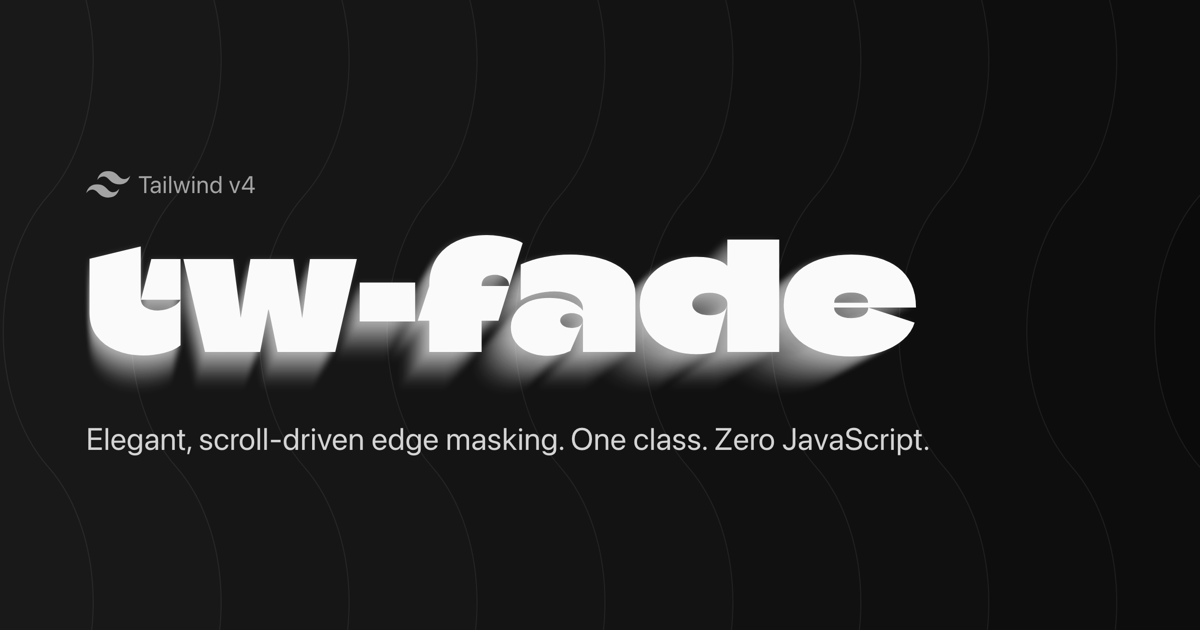
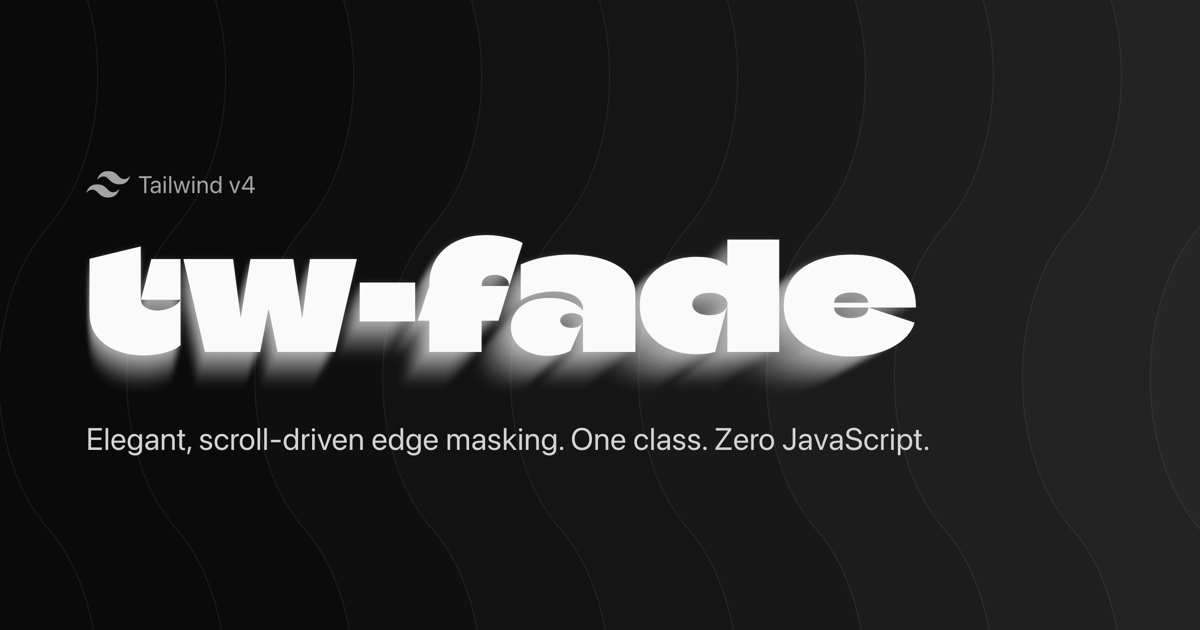
Retune wave fill gradation; OG uses taller wave geometry
Update the stepped per-strip fill on both the live demo and the OG card:
angle 180 (gradation now strengthens toward the right), opacity start
0.122, end 0, stop offsets 0%-77%.

The OG additionally overrides the scroll-morph geometry via a new
window.__demoWaveParams hook (merged over the runtime defaults), giving
the card a taller/longer top wave (amplitude 66, wavelength 605) tuned
for the 1200x630 crop. The live page leaves the hook unset and keeps its
existing geometry.

Claude-Session: https://claude.ai/code/session_014uotQn1DgYLt2LjoJWRV9A

Changed region(s): [[0.9558, 0.3619, 1.0, 0.8444]]

diff --git a/demo/demo-animations.js b/demo/demo-animations.js
@@ -262,6 +262,9 @@ if (!prefersReducedMotion) {
     const scroller = document.body;
     if (!field || !pattern || !path || !scroller) return;
 
+    // The OG card renders this wave statically and overrides the scroll-morph
+    // geometry via window.__demoWaveParams (set before this script runs); the
+    // live page leaves it unset and uses these defaults.
     const params = {
       amplitudeTop: 60,
       amplitudeBottom: 28,
@@ -271,17 +274,18 @@ if (!prefersReducedMotion) {
       spacing: 128,
       columns: 1,
       stagger: false,
+      ...(window.__demoWaveParams || {}),
     };
 
     // Stepped per-strip fill (tuned in wave-lab.html): every band between wave
     // lines gets ONE flat shade, stepping across the screen along `angle`.
     // Color comes from --demo-wave-fill (CSS); only opacity is set per strip.
     const fill = {
-      angle: 0,
-      opacityStart: 0.07,
+      angle: 180,
+      opacityStart: 0.122,
       opacityEnd: 0.0,
       offsetStart: 0,
-      offsetEnd: 100,
+      offsetEnd: 77,
     };
 
     const round = (value) => Number(value.toFixed(3));